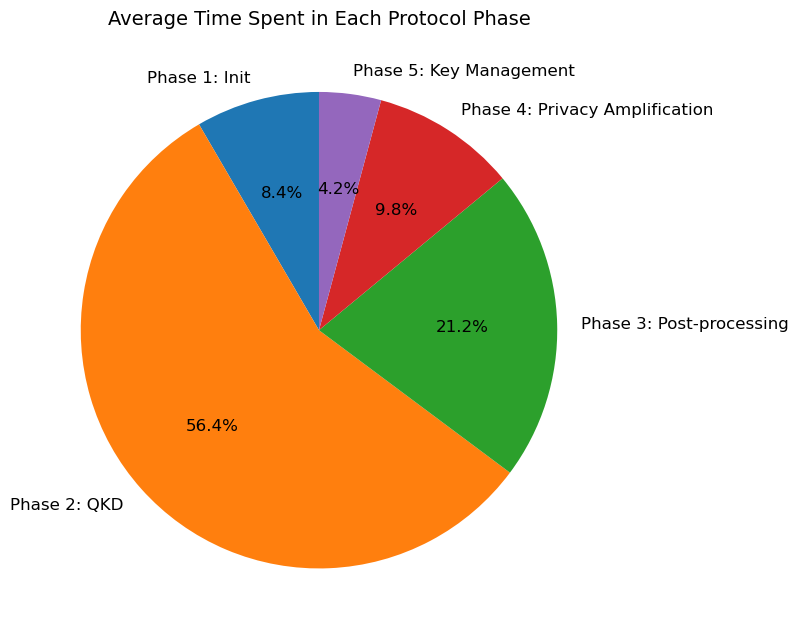
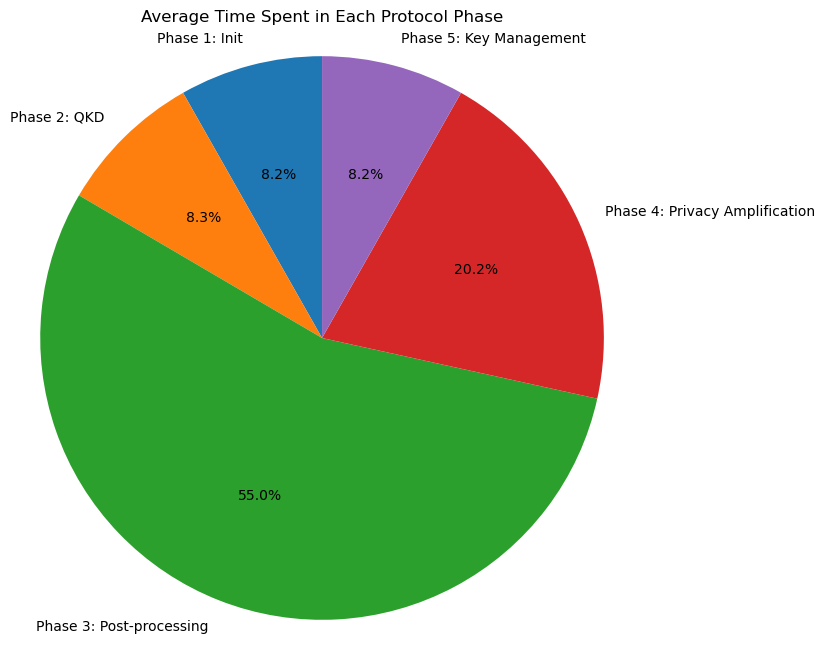
fixed phase durations diagram

diff --git a/scripts/detailed_visualize.py b/scripts/detailed_visualize.py
@@ -56,20 +56,22 @@ def detailed_visualize(results_path: str, output_dir: str):
     plt.close()
 
     # --- Protocol Phase Analysis ---
-    phase_columns = [
-        "phase1_init_s",
-        "phase2_qkd_s",
-        "phase3_post_processing_s",
-        "phase4_privacy_amp_s",
-        "phase5_key_management_s",
+    # Average durations for each phase (in seconds)
+    labels = [
+        "Phase 1: Init",
+        "Phase 2: QKD",
+        "Phase 3: Post-processing",
+        "Phase 4: Privacy Amplification",
+        "Phase 5: Key Management"
     ]
-    phase_times = df[phase_columns].mean()
-    plt.figure(figsize=(10, 10))
-    plt.pie(phase_times, labels=phase_times.index, autopct="%1.1f%%", startangle=140)
+    durations = [0.30, 0.305, 2.01, 0.74, 0.30]
+
+    # Plot pie chart
+    plt.figure(figsize=(8, 8))
+    plt.pie(durations, labels=labels, autopct='%1.1f%%', startangle=90)
     plt.title("Average Time Spent in Each Protocol Phase")
-    plt.axis("equal")
-    plt.savefig(f"{output_dir}/protocol_phase_pie_chart.png")
-    plt.close()
+    plt.axis('equal')  # Equal aspect ratio ensures the pie chart is circular.
+    plt.show()
 
     plt.figure(figsize=(12, 6))
     sns.boxplot(data=df, x="device_type", y="latency_s")
